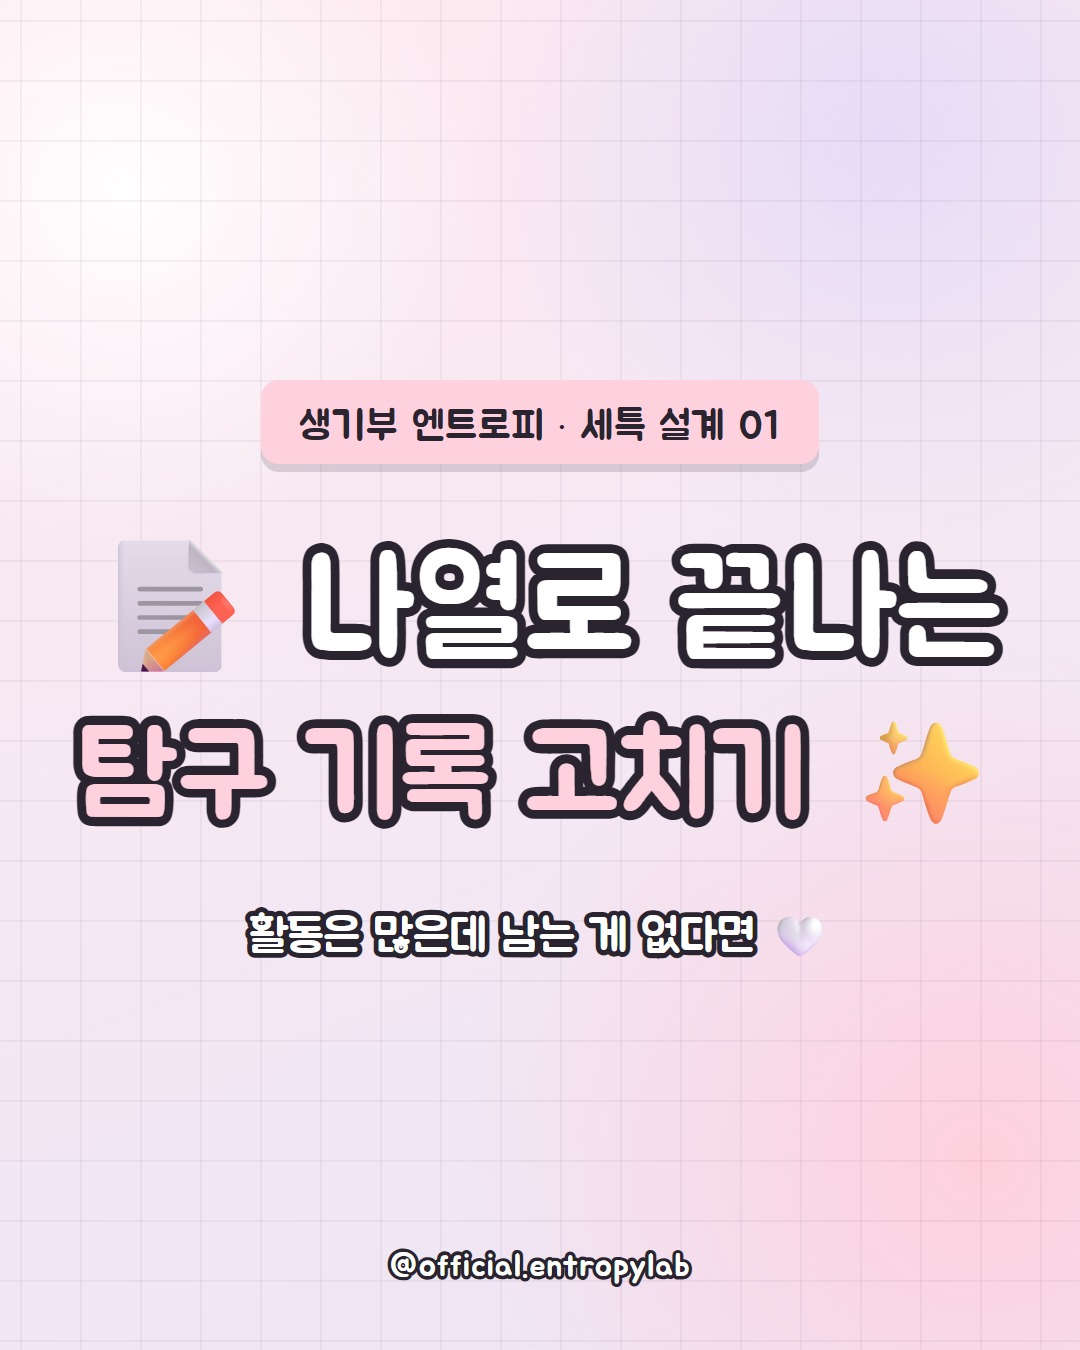
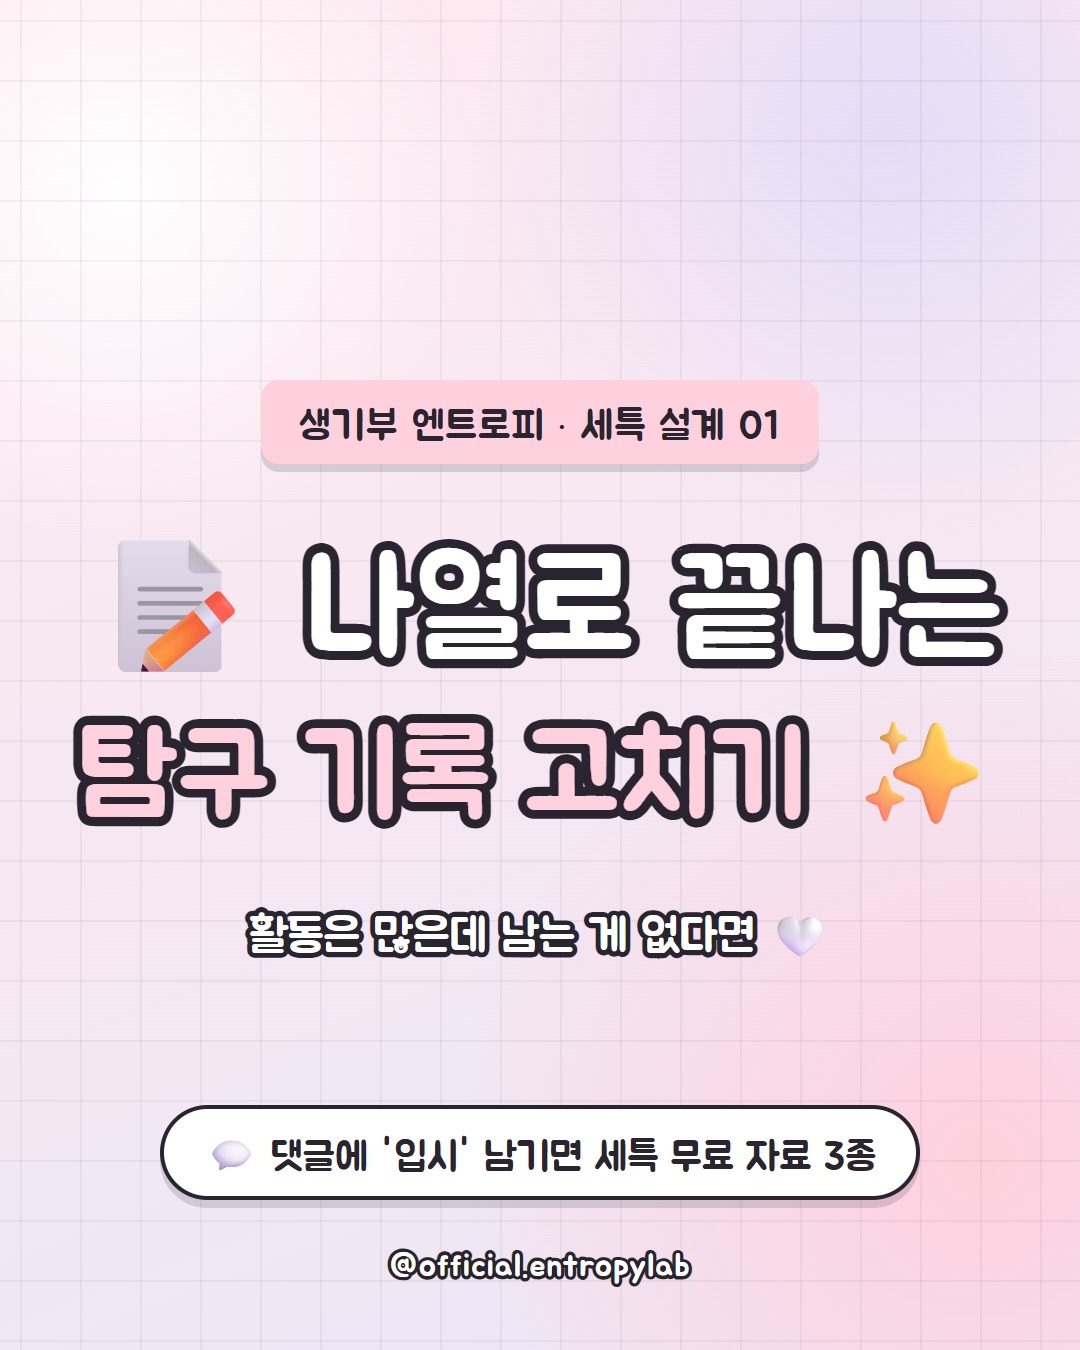
Add files via upload

Changed region(s): [[0.1222, 0.8089, 0.8556, 0.9022]]

diff --git a/src/template.js b/src/template.js
@@ -2,6 +2,7 @@
 // 슬라이드 구성: 표지 → 한눈에 보기 → 본문 N장 → 전·후 예시(선택) → 마무리
 import path from "node:path";
 import { fileURLToPath, pathToFileURL } from "node:url";
+import { ctaTexts } from "./cta.js";
 
 const ROOT = path.resolve(path.dirname(fileURLToPath(import.meta.url)), "..");
 
@@ -101,6 +102,15 @@ body {
   color: #fff; -webkit-text-stroke: 10px var(--ink); paint-order: stroke fill;
   text-wrap: balance;
 }
+.cover .cta-badge {
+  position: absolute; bottom: 150px; left: 0; right: 0;
+  display: flex; justify-content: center;
+}
+.cover .cta-badge span.txt {
+  font-family: 'Jua', ${EMOJI_FONTS}, sans-serif; font-size: 40px; white-space: nowrap;
+  color: var(--ink); background: #fff; border: 4px solid var(--ink); border-radius: 999px;
+  padding: 18px 40px 13px; box-shadow: 0 8px 0 rgba(42, 36, 48, .16);
+}
 .cover .handle {
   position: absolute; bottom: 64px; left: 0; right: 0; text-align: center;
   font-family: 'Jua', sans-serif; font-size: 32px; letter-spacing: 1px;
@@ -196,6 +206,12 @@ footer {
   padding: 18px 40px 14px; border-radius: 999px; color: var(--ink); background: var(--accent-soft);
 }
 .cta div:last-child { background: #fff; }
+.cta .cta-main {
+  display: flex; flex-direction: column; align-items: center; gap: calc(8px * var(--fit));
+  border-radius: 28px; padding: calc(26px * var(--fit)) 46px calc(20px * var(--fit));
+  box-shadow: 0 0 0 5px color-mix(in srgb, var(--accent-soft) 35%, transparent);
+}
+.cta .cta-main .l2 { font-size: calc(44px * var(--fit)); }
 `;
 
 // 글자 크기 자동 맞춤: 표지 제목은 가로 폭에, 본문은 세로 높이에 맞춰 줄인다.
@@ -206,6 +222,13 @@ export const FIT_SCRIPT = `(() => {
     let size = parseFloat(getComputedStyle(el).fontSize);
     while (el.getBoundingClientRect().width > max && size > 56) {
       size -= 2;
+      el.style.fontSize = size + 'px';
+    }
+  }
+  for (const el of document.querySelectorAll('.cta-badge span.txt')) {
+    let size = parseFloat(getComputedStyle(el).fontSize);
+    while (el.getBoundingClientRect().width > 1000 && size > 28) {
+      size -= 1;
       el.style.fontSize = size + 'px';
     }
   }
@@ -271,6 +294,7 @@ const pad2 = (n) => String(n).padStart(2, "0");
  */
 export function buildSlides(post, ctx) {
   const slides = [];
+  const cta = ctaTexts(ctx.cta);
 
   // 1. 표지
   slides.push(
@@ -285,6 +309,7 @@ export function buildSlides(post, ctx) {
     <span class="line hl">${rich(post.cover.title_line2)}</span>
   </h1>
   <p class="sub">${rich(post.cover.subtitle)}</p>
+  ${cta ? `<div class="cta-badge"><span class="txt">${rich(cta.coverBadge)}</span></div>` : ""}
   <div class="handle">${escapeHtml(ctx.handle)}</div>
 </div>`,
     }),
@@ -341,10 +366,17 @@ export function buildSlides(post, ctx) {
       chip: "오늘의 정리",
       main: `<div class="outro-h">${rich(post.outro.headline)}</div>
 ${post.outro.lines.map((l) => `<p>${rich(l)}</p>`).join("")}
-<div class="cta">
+${
+  cta
+    ? `<div class="cta">
+  <div class="cta-main"><span>${rich(cta.outroLine1)}</span><span class="l2">${rich(cta.outroLine2)}</span></div>
+  <div>🔖 저장하고 ${escapeHtml(ctx.handle)} 팔로우</div>
+</div>`
+    : `<div class="cta">
   <div>🔖 저장해 두고 필요할 때 꺼내 보기</div>
   <div>${escapeHtml(ctx.handle)} 팔로우하고 다음 글 받기</div>
-</div>`,
+</div>`
+}`,
     }),
   );
 

diff --git a/src/generate.js b/src/generate.js
@@ -2,6 +2,7 @@
 // 게시물 글을 쓰는 방법은 queue/README.md 참고.
 import fs from "node:fs/promises";
 import path from "node:path";
+import { ctaTexts } from "./cta.js";
 
 const CAPTION_LIMIT = 2200; // 인스타그램 캡션 최대 글자 수
 const HASHTAG_LIMIT = 30;
@@ -65,12 +66,21 @@ export function validatePost(post, config) {
   return problems;
 }
 
-/** 캡션 본문 뒤에 해시태그(게시물별 + 공통)를 붙인다. */
+/**
+ * 캡션 본문에 댓글 안내(첫 문단 바로 뒤, 마지막)와 해시태그(게시물별 + 공통)를 붙인다.
+ * 첫 문단 뒤에 넣는 이유: 피드에서 "더 보기"를 누르기 전에 보이는 범위에 들어가도록.
+ */
 export function buildFullCaption(post, config) {
   const tags = [...new Set([...post.hashtags, ...config.content.fixedHashtags])]
     .map((tag) => (tag.startsWith("#") ? tag : `#${tag}`).replace(/\s+/g, ""))
     .slice(0, HASHTAG_LIMIT);
-  return `${post.caption.trim()}\n\n${tags.join(" ")}`;
+  const paragraphs = post.caption.trim().split(/\n\s*\n/);
+  const cta = ctaTexts(config.cta);
+  if (cta) {
+    paragraphs.splice(1, 0, cta.captionTop);
+    paragraphs.push(cta.captionEnd);
+  }
+  return `${paragraphs.join("\n\n")}\n\n${tags.join(" ")}`;
 }
 
 /** 게시물 파일 하나를 읽어 검사한다. 문제가 있으면 오류를 던진다. */

diff --git a/src/cta.js b/src/cta.js
@@ -1,0 +1,24 @@
+// "댓글에 '입시' 남기면 자료를 보내 드린다"는 안내 문구를 config.json의 cta 설정으로 만든다.
+// 카드 이미지(표지·마무리)와 캡션이 같은 문구를 쓰도록 한곳에서 만든다.
+
+// 받침이 있으면 "을", 없으면 "를"
+function objectParticle(word) {
+  const last = String(word).trim().at(-1) ?? "";
+  const code = last.charCodeAt(0);
+  if (code >= 0xac00 && code <= 0xd7a3) return (code - 0xac00) % 28 === 0 ? "를" : "을";
+  return "를";
+}
+
+/** cta 설정이 꺼져 있거나 없으면 null */
+export function ctaTexts(cta) {
+  if (!cta?.enabled || !cta.keyword || !cta.offer) return null;
+  const kw = cta.keyword;
+  const offer = cta.offer;
+  return {
+    coverBadge: `💬 댓글에 '${kw}' 남기면 ${offer}`,
+    outroLine1: `💬 댓글에 '${kw}'${objectParticle(kw)} 남겨 주세요`,
+    outroLine2: `${offer}${objectParticle(offer)} DM으로 보내드려요`,
+    captionTop: `📌 댓글에 '${kw}'${objectParticle(kw)} 남겨 주시면 ${offer}${objectParticle(offer)} DM으로 보내드려요!`,
+    captionEnd: `💬 '${kw}' 댓글 남기고 ${offer} 받아 가세요!`,
+  };
+}

diff --git a/src/render.js b/src/render.js
@@ -45,6 +45,7 @@ export async function renderPost(post, { config, outDir, seriesNumber, seed }) {
     // 시리즈마다 표지와 강조 색을 조금씩 다르게 쓴다. 따로 정하지 않은 시리즈는 기본 색.
     theme: { ...config.theme, ...(config.theme.series?.[post.series] ?? {}) },
     handle: config.brand.handle,
+    cta: config.cta,
     brandName: config.brand.name,
     seriesNumber,
     background: await pickBackground(seed),

diff --git a/README.md b/README.md
@@ -31,6 +31,7 @@ GitHub의 서버에서 실행되므로 내 PC가 꺼져 있어도 올라가고, 
 | --- | --- |
 | `brand.name` | 표지 라벨에 들어가는 이름 |
 | `brand.handle` | 카드 하단에 들어가는 계정 아이디 |
+| `cta` | 댓글 안내 문구. `keyword`(댓글 단어)와 `offer`(보내는 자료)로 표지 하단, 마무리 카드, 캡션의 안내 문구가 만들어집니다. 끄려면 `enabled`를 `false`로 바꿉니다. |
 | `content.niche`, `audience`, `tone`, `persona`, `rules` | 게시물 글을 쓸 때 참고하는 계정 정보와 규칙 |
 | `content.series` | 시리즈 이름 목록. 표지 라벨에 `생기부 엔트로피 · 세특 설계 01`처럼 번호가 붙습니다. |
 | `content.detailSlides` | 본문 카드 수 |
